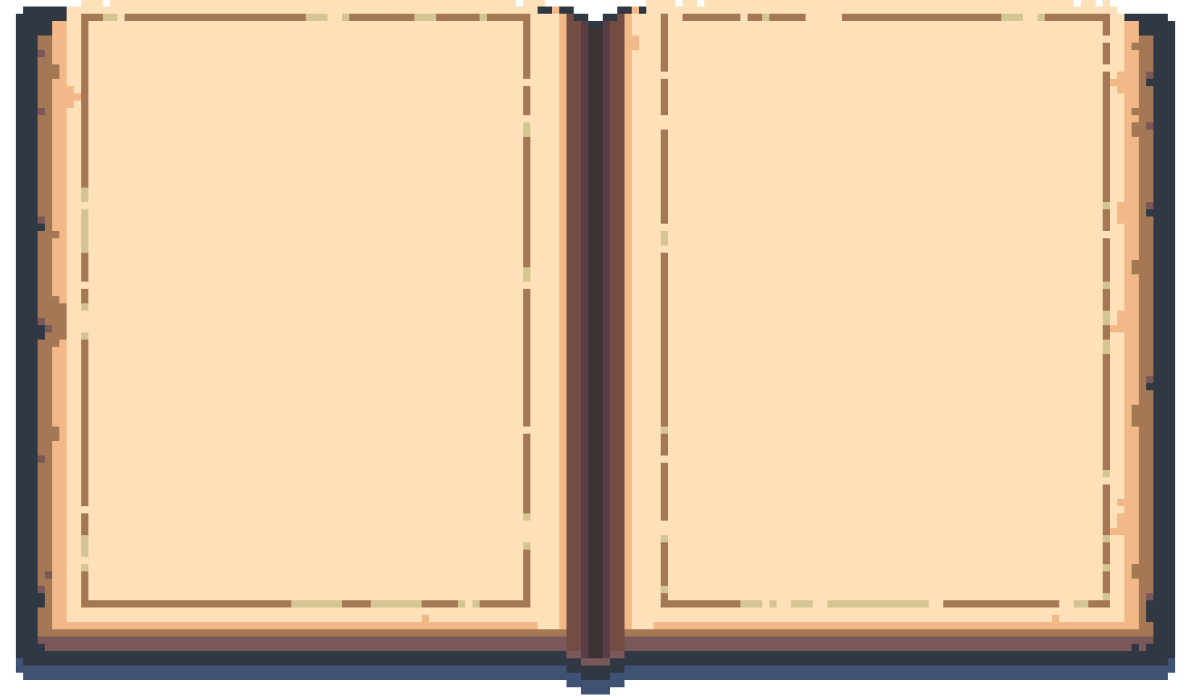
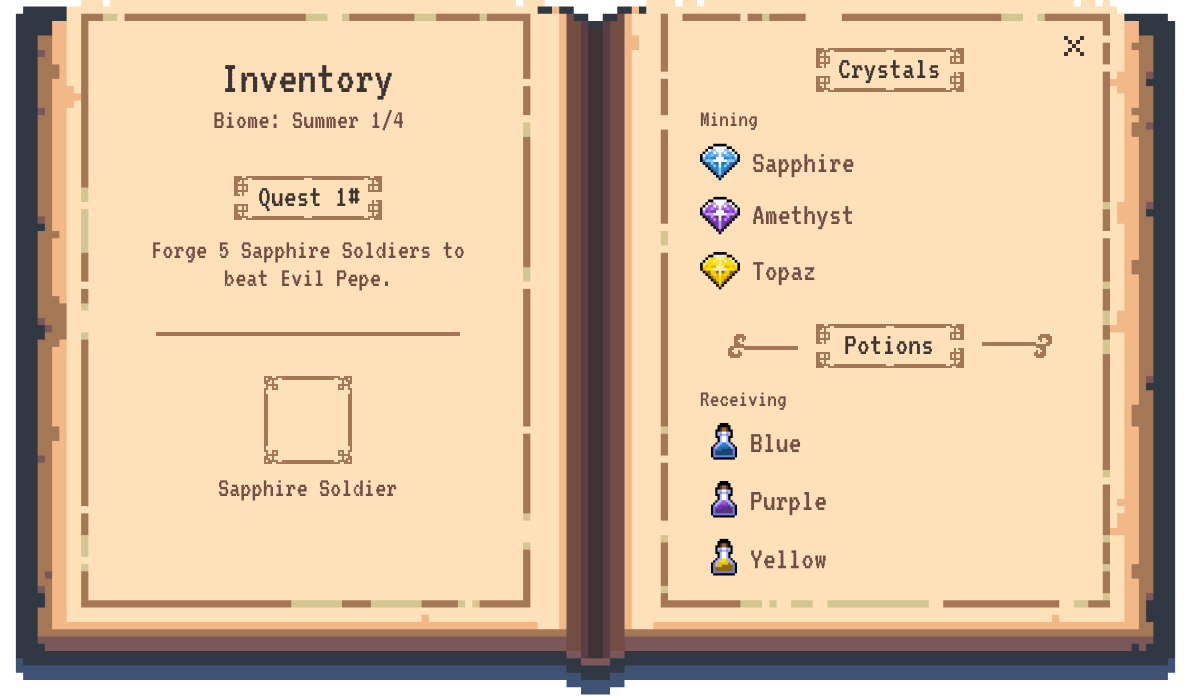
Inventory UI

diff --git a/packages/client/src/layers/phaser/systems/createInteractiveSystem.ts b/packages/client/src/layers/phaser/systems/createInteractiveSystem.ts
@@ -37,6 +37,16 @@ export const createInteractiveSystem = (layer: PhaserLayer) => {
     },
   } = layer;
 
+  const inventoryButton = phaserScene.add
+    .image(phaserScene.cameras.main.width - 178, 0, Assets.InventoryBtn)
+    .setOrigin(0, 0)
+    .setDepth(18)
+    .setScrollFactor(0)
+    .setInteractive()
+    .on("pointerdown", () => {
+      toggleInventory();
+    });
+
   const backdrop = phaserScene.add
     .rectangle(
       0,
@@ -58,7 +68,7 @@ export const createInteractiveSystem = (layer: PhaserLayer) => {
     .setScrollFactor(0);
 
   const bookDialog = addDialog(Assets.Book, () => {
-    bookDialog.setVisible(false);
+    toggleInventory();
   }).setScrollFactor(0);
 
   const storeDialog = addTooltip(Assets.Store, 24, 8, startExchange);
@@ -90,6 +100,20 @@ export const createInteractiveSystem = (layer: PhaserLayer) => {
     }
   });
 
+  let showInventory = false;
+
+  function toggleInventory() {
+    showInventory = !showInventory;
+    console.log("TOGGLE INV");
+
+    if (showInventory) {
+      backdrop.setVisible(true);
+      bookDialog.setVisible(true);
+    } else {
+      backdrop.setVisible(false);
+      bookDialog.setVisible(false);
+    }
+  }
   function addTooltip(
     image: string,
     x: number,

diff --git a/packages/client/src/layers/phaser/configurePhaser.ts b/packages/client/src/layers/phaser/configurePhaser.ts
@@ -17,6 +17,8 @@ import NFTSprite from "../../../public/assets/dialogs/nft.png";
 import NFTDisabledSprite from "../../../public/assets/dialogs/nftdisabled.png";
 import StoreSprite from "../../../public/assets/dialogs/store.png";
 import StoreDisabledSprite from "../../../public/assets/dialogs/storedisabled.png";
+import StoreEnterSprite from "../../../public/assets/dialogs/storedialog.png";
+import ForgeEnterSprite from "../../../public/assets/dialogs/forgedialog.png";
 
 import BookSprite from "../../../public/assets/dialogs/book.png";
 import IntroSprite from "../../../public/assets/dialogs/intro.png";
@@ -125,6 +127,16 @@ export const phaserConfig = {
           type: AssetType.Image,
           key: Assets.StoreDisabled,
           path: StoreDisabledSprite,
+        },
+        [Assets.StoreEnter]: {
+          type: AssetType.Image,
+          key: Assets.StoreEnter,
+          path: StoreEnterSprite,
+        },
+        [Assets.ForgeEnter]: {
+          type: AssetType.Image,
+          key: Assets.ForgeEnter,
+          path: ForgeEnterSprite,
         },
         [Assets.Book]: {
           type: AssetType.Image,

diff --git a/packages/client/src/layers/phaser/constants.ts b/packages/client/src/layers/phaser/constants.ts
@@ -41,6 +41,9 @@ export enum Assets {
   Store = "Store",
   StoreDisabled = "StoreDisabled",
 
+  StoreEnter = "StoreEnter",
+  ForgeEnter = "ForgeEnter",
+
   Book = "Book",
   Intro = "Intro",
 
